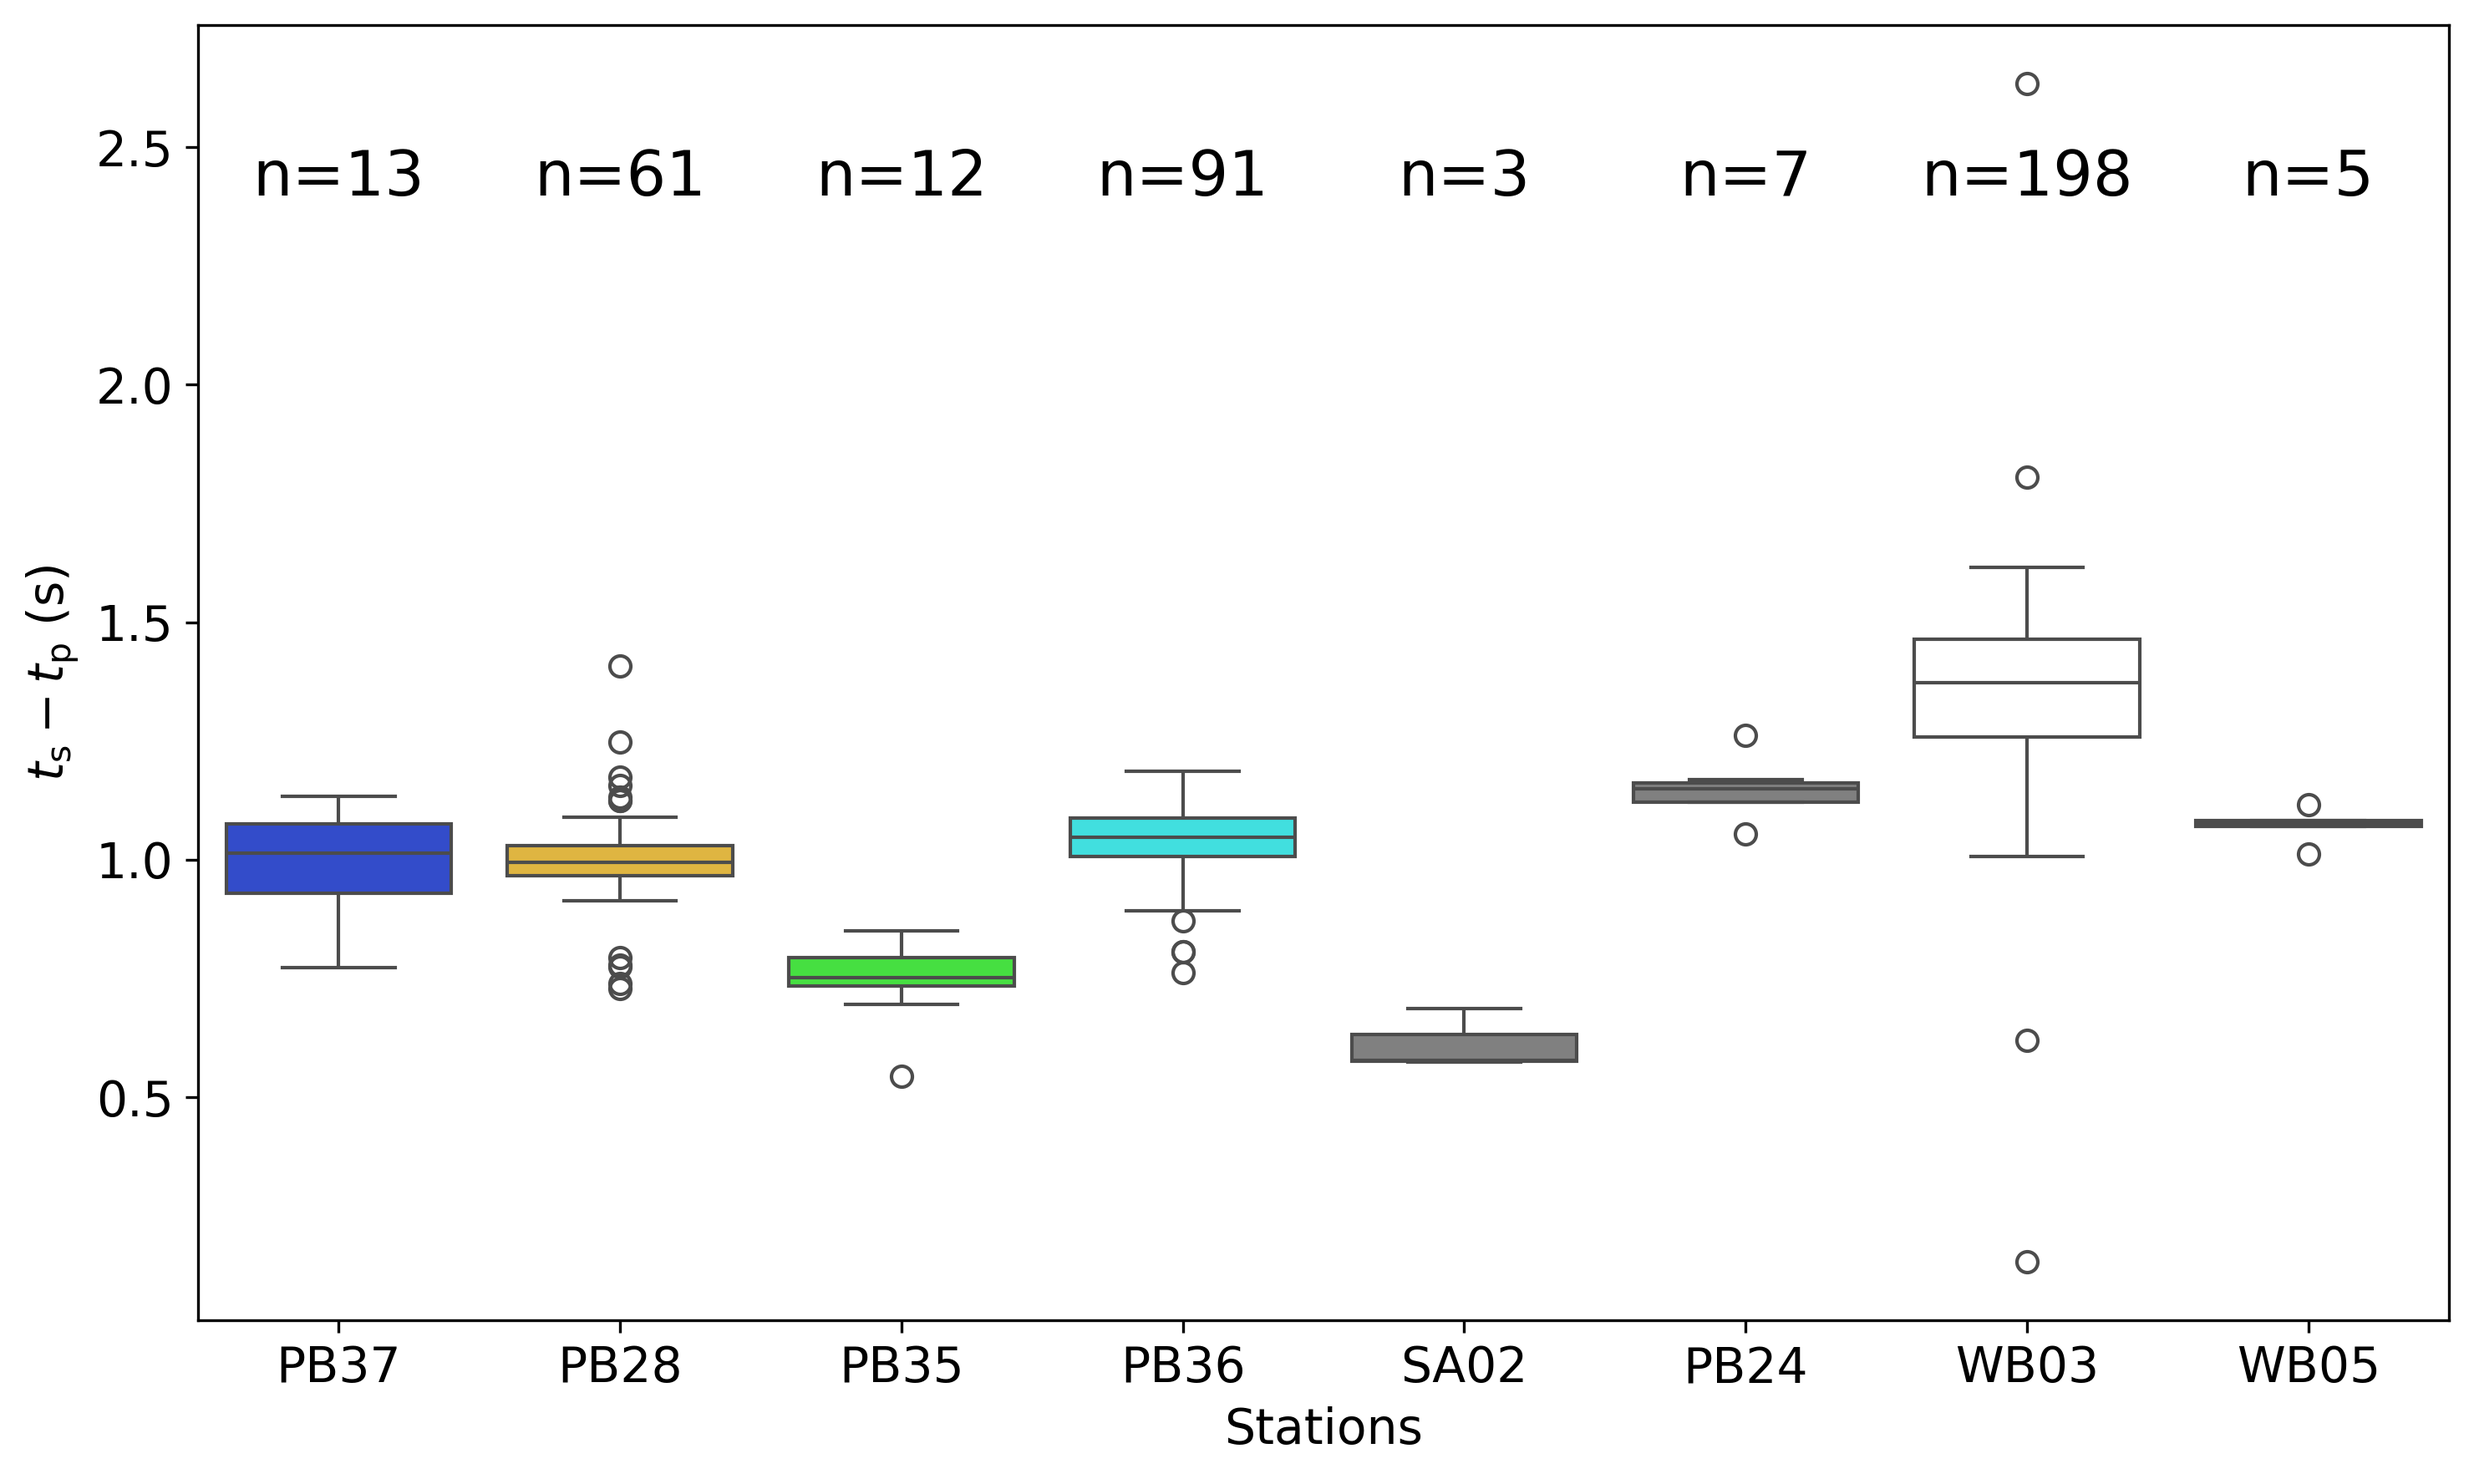
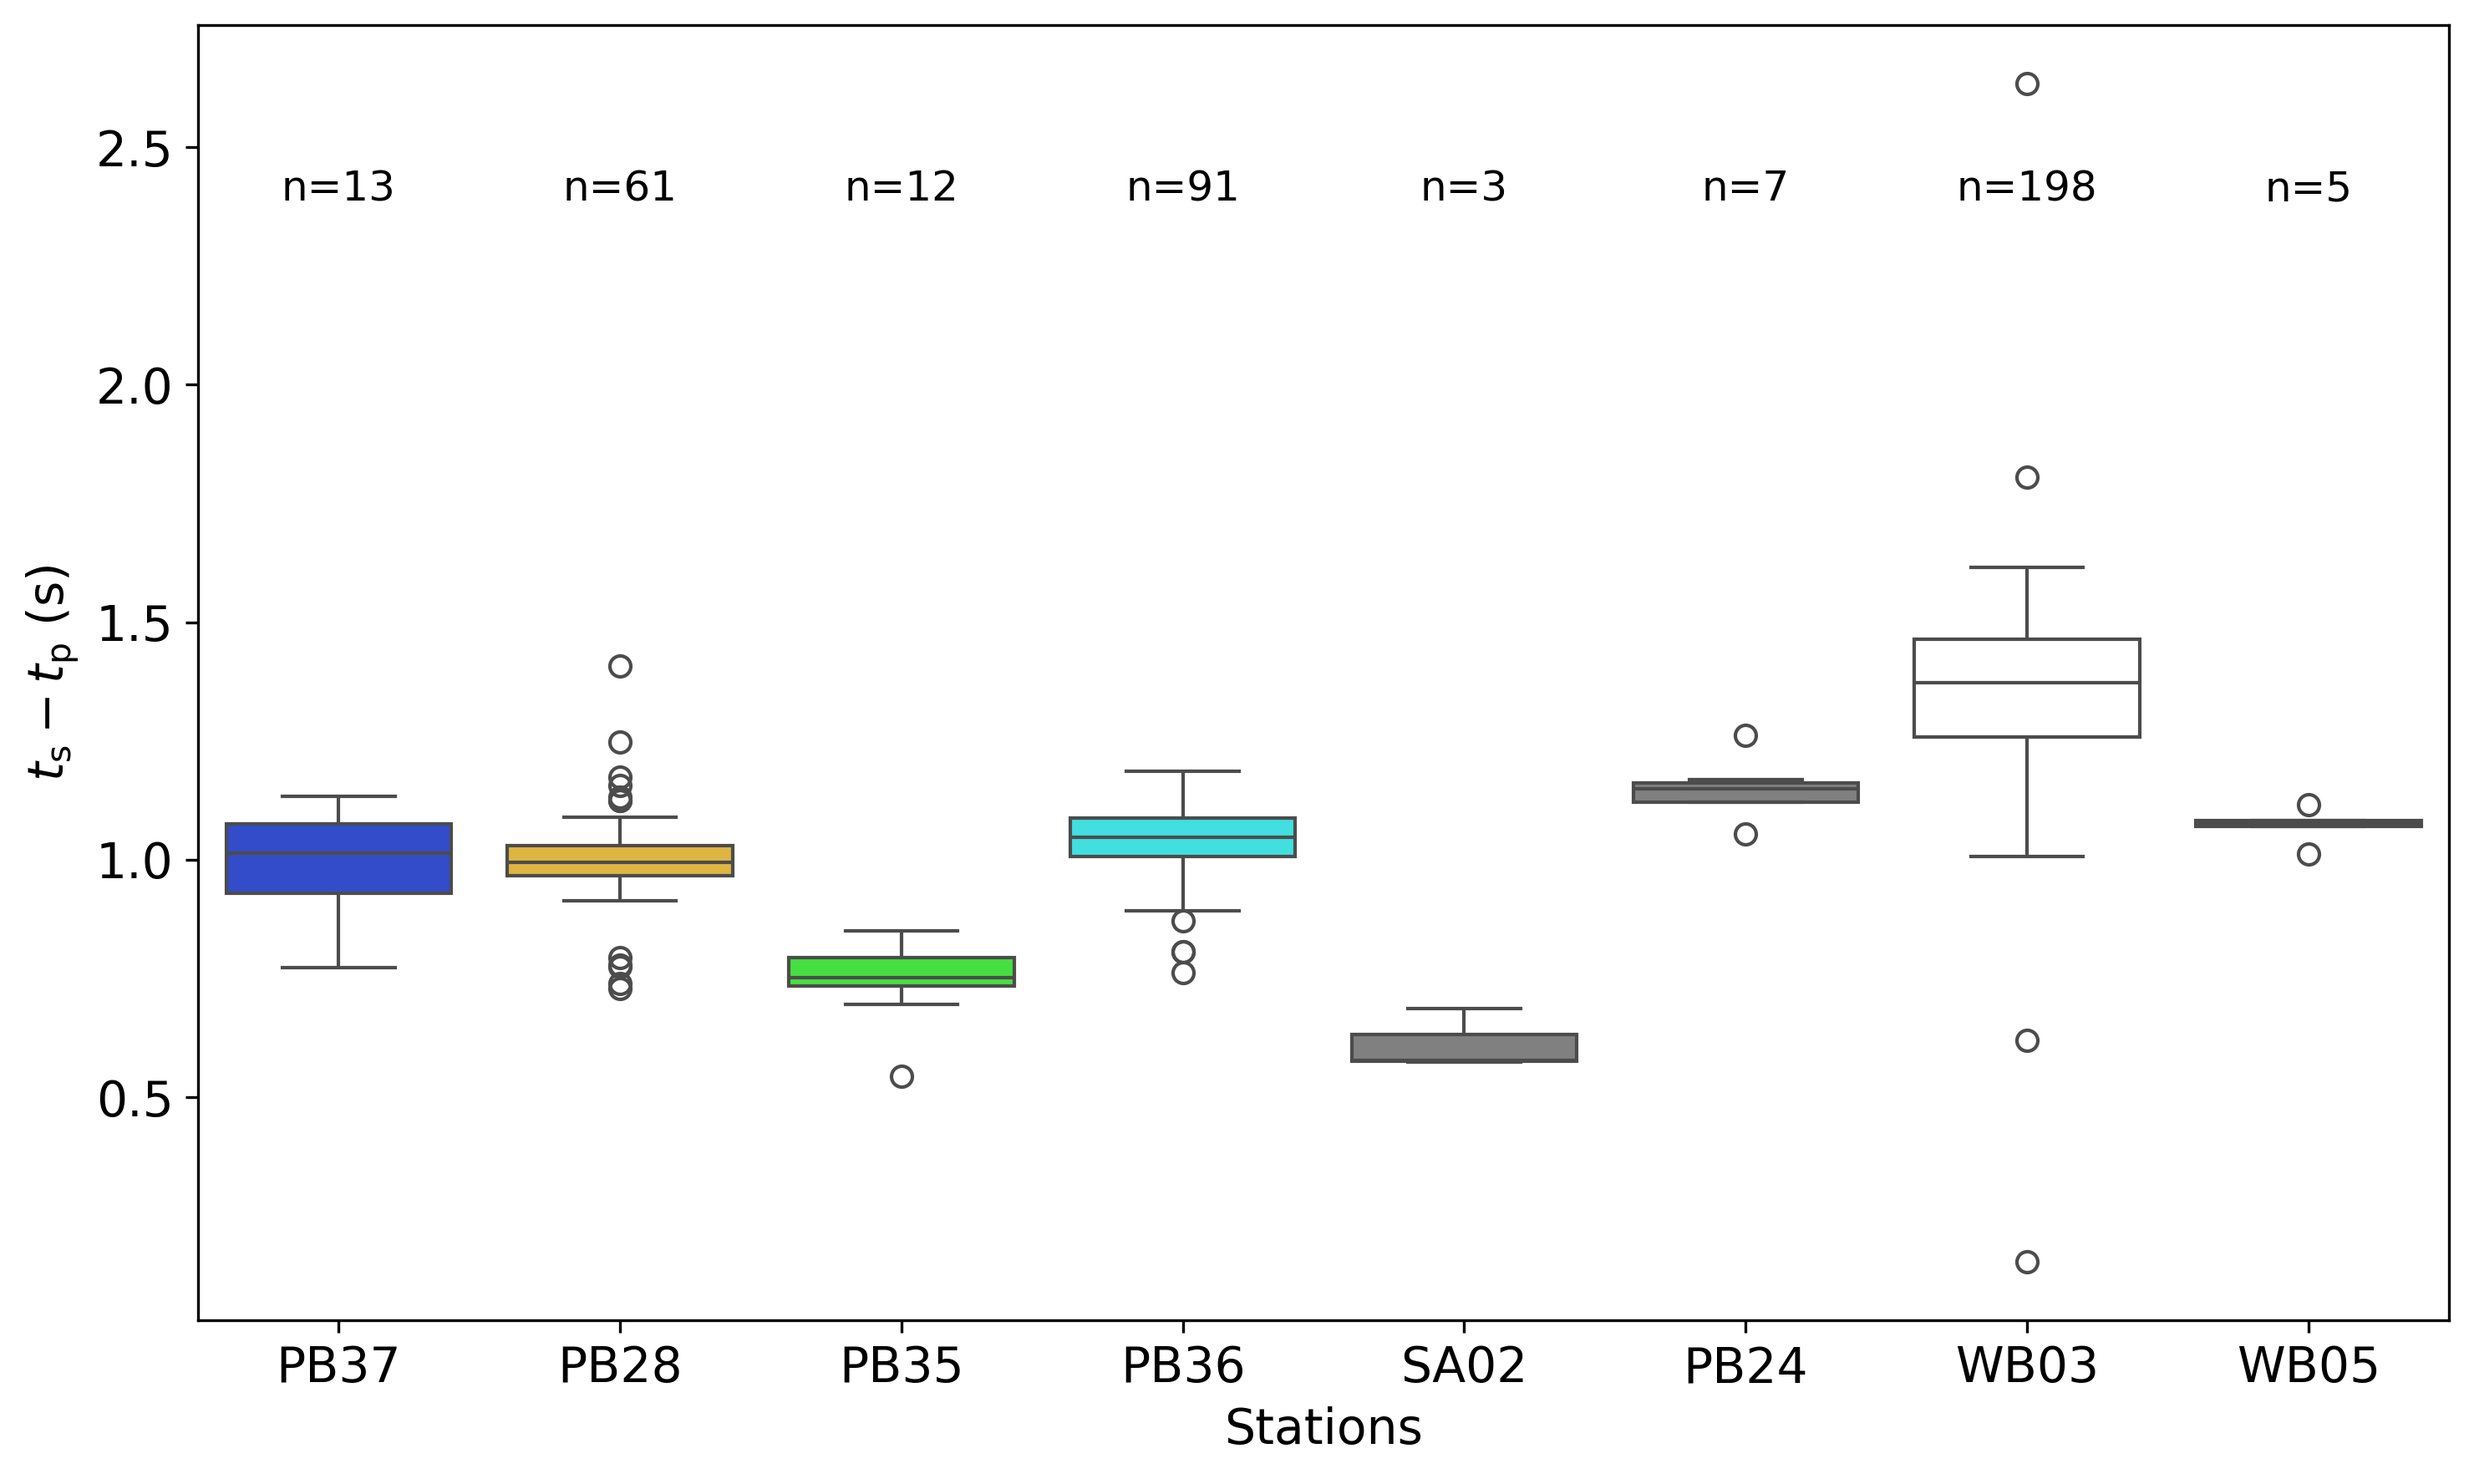
s-p times

diff --git a/10102024/delaware/loc/s_p.py b/10102024/delaware/loc/s_p.py
@@ -441,7 +441,7 @@ def plot_times_by_station(data,title=None,show: bool = True, savefig:str=None,
         ax.text(i, data['ts-tp'].max()-(data['ts-tp'].max()*0.1),
                 f'n={count}', 
                 ha='center', va='bottom', color='black',
-                fontsize=18)
+                fontsize=12)
     if title is not None:
         title = r'$t_{\mathrm{s}} - t_{\mathrm{p}}$' +f' Analysis\n{title}'
         ax.set_title(title,
